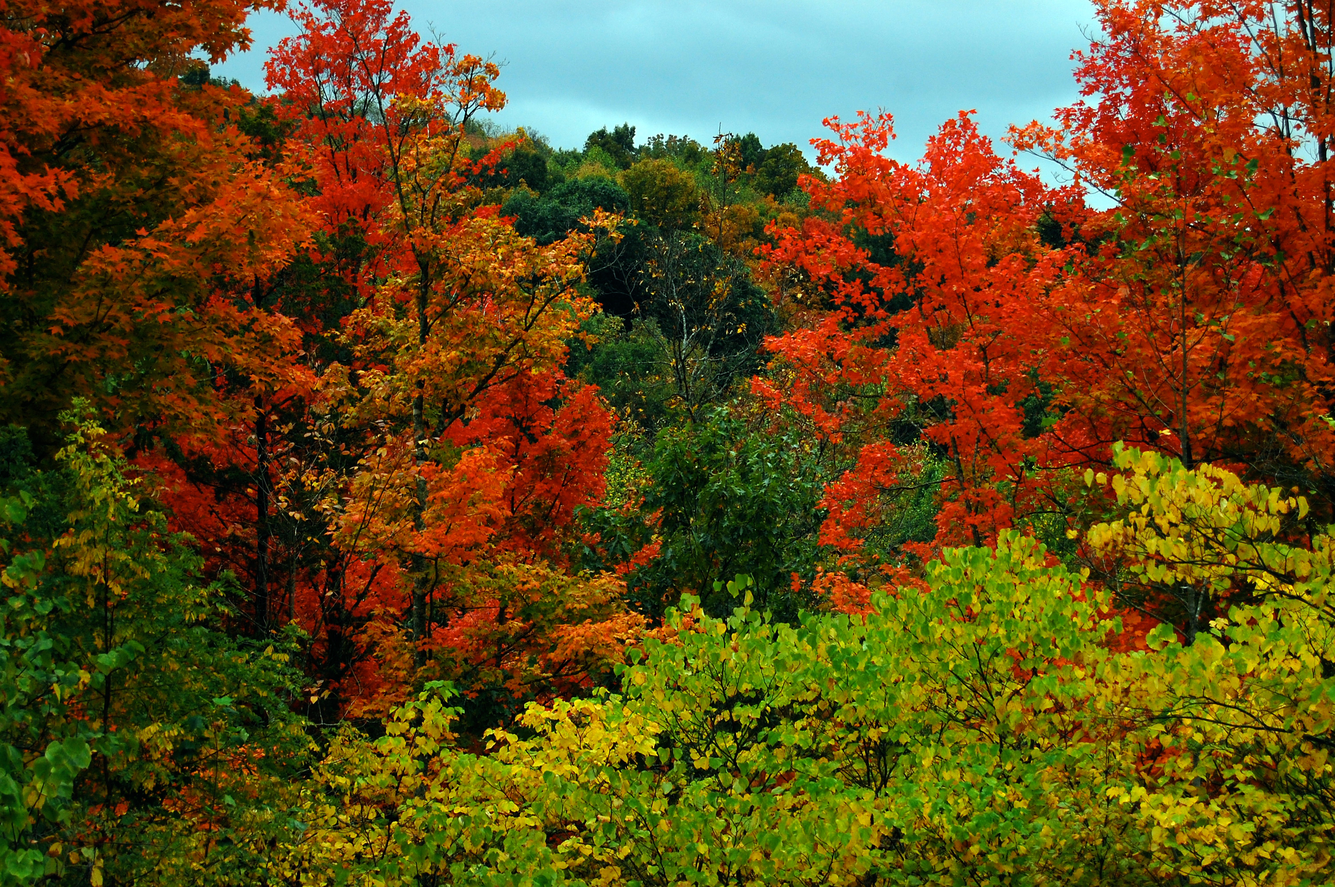
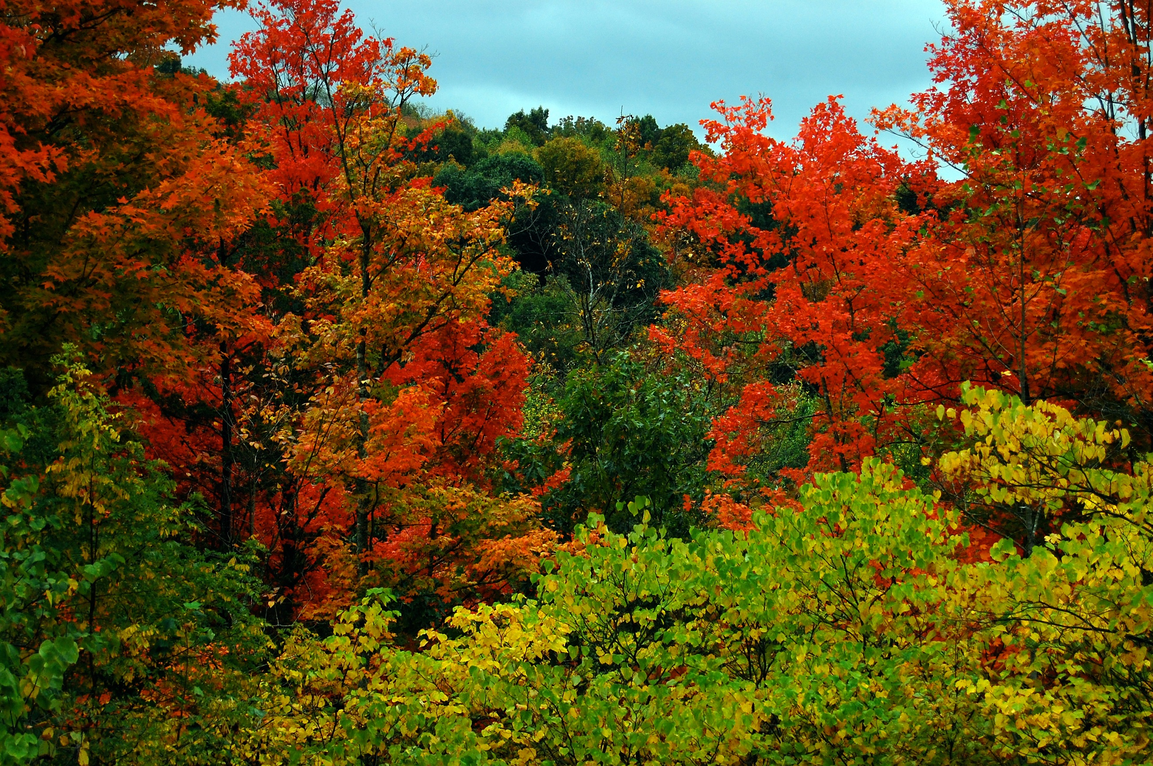
Corrected image files for size, updated tutorial 3 code to be cleaner

diff --git a/lab01/lab01_material/part1/me132_tutorial_camera/me132_tutorial_3.cc b/lab01/lab01_material/part1/me132_tutorial_camera/me132_tutorial_3.cc
@@ -1,6 +1,6 @@
 /*
- * This program grabs the left and right image (fast) from the bumblebee 
- * camera and displays it using opencv. There is no stereo processing 
+ * This program grabs the left and right image (fast) from the bumblebee
+ * camera and displays it using opencv. There is no stereo processing
  * done here which is why it is particularly fast. SIFT features are also
  * extracted and plotted for the right camera only.
  */
@@ -37,69 +37,79 @@ int main(int argc, char** argv)
 {
     // what's the ID of the camera?
     int ID = 5020066;
-    
-    if(argc>1)
-       ID = atoi(argv[1]);
+
+    if (argc > 1)
+    {
+        ID = atoi(argv[1]);
+    }
     else
     {
-       fprintf(stderr, "missing argument. Need model ID. Abort. \n");
-       return -1;
+        fprintf(stderr, "missing argument. Need model ID. Abort. \n");
+        return -1;
     }
-    
+
     // let's create the bumblebee object with some default parameters
     // - the 2 is for stereo downscaling (1 means full image stereo, 2
     //   means half image)
     // - the true is a boolean indicating we're using a color camera
     int scale = 2;
     bool color = true;
-    BumbleBee bb(ID,scale,color); 
-    
+    BumbleBee bb(ID, scale, color);
+
     // first let's initialize the bumblebee but stop the program if the
-    // initialization fails 
-    if(bb.init()<0)
-       return(-1);  
-    
+    // initialization fails
+    if (bb.init() < 0)
+    {
+        return -1;
+    }
+
     // what's the width and height of the camera? -- remember to scale it
-    int width = bb.getImageWidth()/scale;
-    int height = bb.getImageHeight()/scale; 
-    
+    int width = bb.getImageWidth() / scale;
+    int height = bb.getImageHeight() / scale;
+
     // now let's create an opencv image container to hold the left &
     // right image
-    IplImage *left = cvCreateImage(cvSize(width,height), IPL_DEPTH_8U, 3);
-    IplImage *right = cvCreateImage(cvSize(width,height), IPL_DEPTH_8U, 3);
-    
+    IplImage *left = cvCreateImage(cvSize(width, height), IPL_DEPTH_8U, 3);
+    IplImage *right = cvCreateImage(cvSize(width, height), IPL_DEPTH_8U, 3);
+
     // let's create a buffer to hold the disparity image
     unsigned short disparity_buffer[width*height];
-    
+
     // let's create two windows to display the left and right images
-    cvNamedWindow("Left",1);
-    cvNamedWindow("Right",1);
-    
+    cvNamedWindow("Left", 1);
+    cvNamedWindow("Right", 1);
+
     struct feature* current_features;
     int num_current_features;
 
+    // Allocate for final right image
+    Mat right_img_final;
+    
     // now let's enter a while loop to continually capture from the
     // camera and display the image
     while(true)
     {
         // first thing we do is call the bumblebee to capture the images
         // and exit if the capture fails
-        if(bb.capture()<0)
+        if (bb.capture() < 0)
         {
             printf("capture failed!\n");
             break;
         }
-        
+
         // if here, then the capture succeeded so let's grab the left and
         // right rectified images and place them into the opencv containers
         // we setup earlier
         bb.getRectifiedColorBuffer((unsigned char*)left->imageData, BB_LEFT);
         bb.getRectifiedColorBuffer((unsigned char*)right->imageData, BB_RIGHT);
+
+        // Save copy of right image before its modified with SIFT data
+        right_img_final = Mat(right);
         
         // lets grab the disparity buffer too along with the row size
         int rowinc;
         bb.getDisparityImage(disparity_buffer, &rowinc);
-        
+
         // extract SIFT features for the small right image only, plot them,
         // then calculate the 3d point to the first feature then delete them
         // to avoid memory leak
@@ -117,7 +127,7 @@ int main(int argc, char** argv)
                      8,
                      0
                      );
-            
+
             // calculate distance to first feature and display it's XYZ in right
             // camera ref frame
             // TODO: remove?
@@ -133,80 +143,63 @@ int main(int argc, char** argv)
             //    printf("feature 0 is at %f, %f, %f\n", x, y, z);
             //}
         }
-        
+
         // now let's display these captured images in the display windows we setup
         // earlier
         cvShowImage("Left", left);
         cvShowImage("Right", right);
-        
+
         // now let's handle if a key was pressed, waiting up to 2 ms for it
         // if no key is pressed, then pressed_key < 0; otherwise, we exit on a
         // pressed key
-        int pressed_key = cvWaitKey(3); 
-        if(pressed_key>0)
+        int pressed_key = cvWaitKey(3);
+        if (pressed_key > 0)
         {
             // Exit, keeping current_features array until it is output to file
-            break;      
-        } else {
+            break;
+        }
+        else
+        {
             // If not done, free current list for next timestep
             free(current_features);
         }
     }
-    
-    ofstream RGB_right_stereo("RGB_right_stereo.txt");
-    ofstream 3D_stereo("3D_stereo.txt");
 
     // Loop through all values in disparity buffer, converting to 3D stero points
-    for (int i = 0; i < num_current_features; i++) {
+    ofstream stereo3D("right_stereo_3D.txt");
+    for (int i = 0; i < num_current_features; i++)
+    {
         int row, col;
         unsigned short disp;
         float x, y, z;
         row = (int)current_features[i].img_pt.y;
         col = (int)current_features[i].img_pt.x;
-        disp = disparity_buffer[row*width + col];
+        disp = disparity_buffer[row * width + col];
         bb.disparityToXYZ(row, col, disp, &x, &y, &z);
         printf("feature 0 is at %f, %f, %f\n", x, y, z);
 
         // Output to text file in format <x>, <y>, <z>
-        3D_stereo << x << ", " << y << ", " << z << endl;
-
+        stereo3D << x << ", " << y << ", " << z << endl;
     }
+    stereo3D.close();
 
     // Done with current_features array, ok to free it
     free(current_features);
 
-    // TODO: convert IplImage to a type that isn't trash
-    Mat right_img(right);
-
-    // Write RGB pixels from right image to text file
-    for (int i = 0; i < right_img.rows; i++) {
-
-        for (int j = 0; j < right_img.cols; j++) {
-
-            // Extract RGB values from pixel
-            Point3_<uchar> *p = right_img.ptr<Point3_<uchar> >(i,j); // TODO: does this work?
-
-            // Output to file in format <i>, <j>, <R>, <G>, <B>
-            RGB_right_stereo << i << ", " << j << ", " << p->z << ", " << p->y << ", " << p->x << endl
-        }
-
-    }
-
-    // Close all files
-    RGB_right_stereo.close();
-    3D_stereo.close();
+    // Save right stereo image
+    imwrite("right_stereo_RGB.jpg", right_img_final);
 
     // cleanup, close, and finish the bumblebee camera
     bb.fini();
-    
+
     // let's release those image containers we setup earlier
-    cvReleaseImage(&right);   
+    cvReleaseImage(&right);
     cvReleaseImage(&left);
-    
+
     // finally, let's destroy those windows we setup to display the images
     cvDestroyWindow("Left");
     cvDestroyWindow("Right");
-    
+
     return 0;
 }
 
